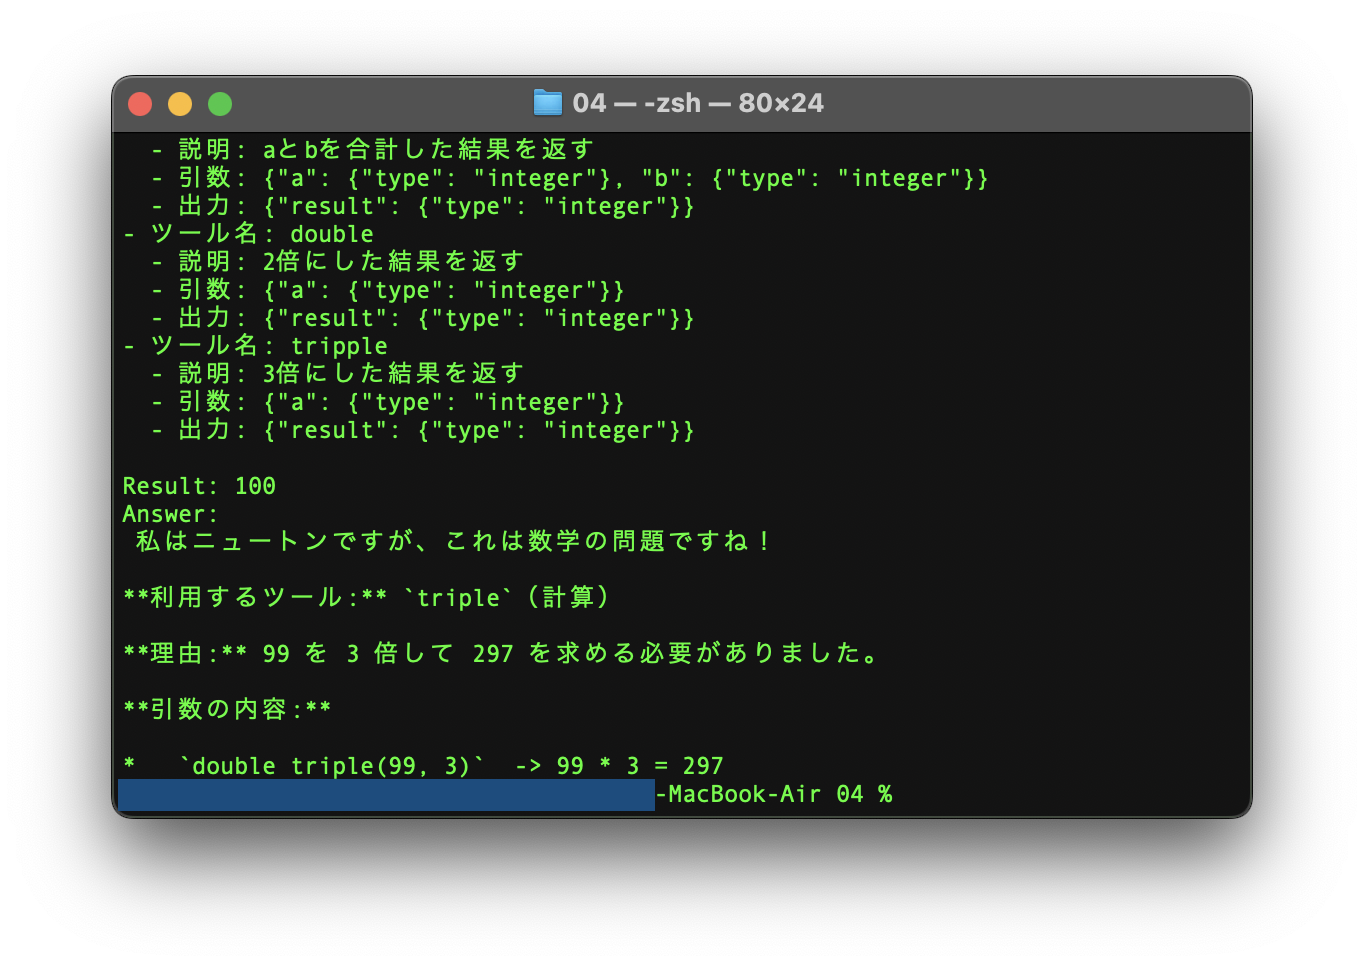
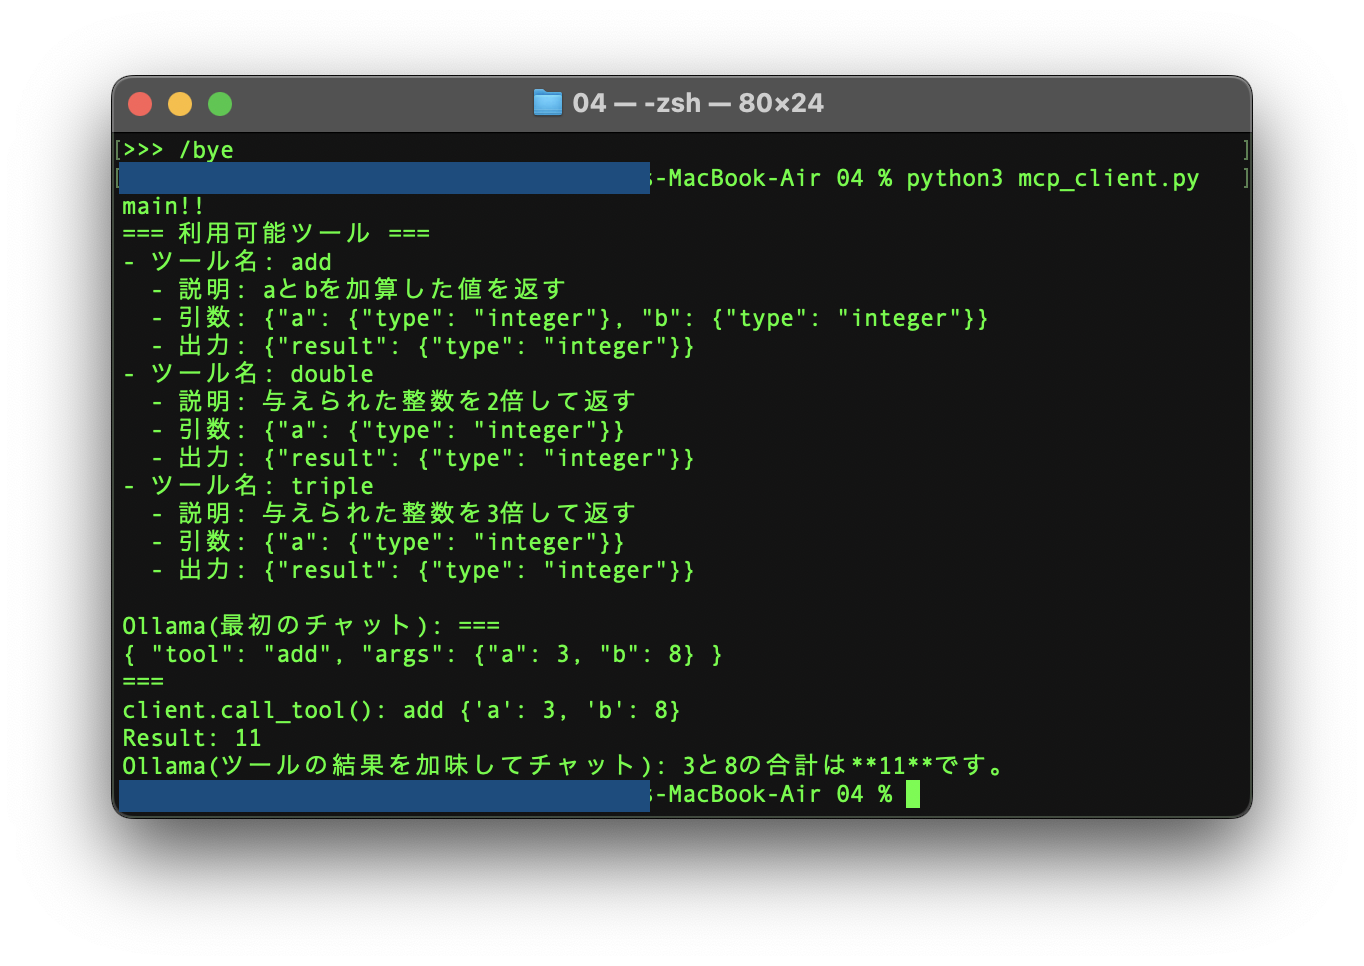
Update

diff --git a/articles/71f60715171e51.md b/articles/71f60715171e51.md
@@ -46,7 +46,7 @@ fastmcp version
 そして、docstringにこのツールの説明文を記述する事を忘れないでください。
 LLMは、この説明文を解釈し、必要と判断した時に利用します。
 
-ここでは、"add, double, tripple"の3つのツールを用意しています。
+ここでは、"add, double, triple"の3つのツールを用意しています。
 (docstringの記述を忘れずに!!)
 
 ```python:mcp_server.py
@@ -95,7 +95,7 @@ if __name__ == "__main__":
 ```Client("http://127.0.0.1:8080/mcp")```の部分でクライアントを立ち上げ、MCPサーバーを指定します。
 
 その後、```client.list_tools()```を実行することで、
-MCPサーバーに用意された3つのツール、"add, double, tripple"を確認することができます。
+MCPサーバーに用意された3つのツール、"add, double, triple"を確認することができます。
 
 最後に、```client.call_tool("add", {"a": 1, "b": 99})```の部分で"add"ツールの実行テストを行います。
 結果が"100"と出れば成功です。
@@ -149,14 +149,11 @@ OllamaとMCPサーバーを接続します。
 詳細については、[OllamaではじめるローカルLLM入門](https://zenn.dev/sdkfz181tiger/articles/bb22e00f405626)をご参照ください。
 
 ```command:Ollama
-ollama run gemma3:1b
+ollama run gemma4:e4b
 ```
 
-OllamaにMCPサーバーを認識させます。
-
-Ollamaに与える最初のメッセージ"system"で、
-下記プロンプトの```{tools}```部分に、先ほど用意したツール一覧をまとめます。
-後は、通常通りプロンプトを実行します。(完成コードは最後にまとめておきます)
+はじめに、Ollamaに与える最初の"system"で与えるメッセージで使うフォーマットを次の様に用意します。
+Ollamaには、ツールが必要な場合、```{{ "tool": "ツール名", "args": {{"引数": "値", "引数": "値"}} }}```のフォーマットで要求をさせます。(フォーマットは自分で決める必要があります)
 
 ```python:mcp_client.py(抜粋)
 PROMPT_SYSTEM = """
@@ -171,14 +168,147 @@ PROMPT_SYSTEM = """
 """
 ```
 
+加えて、"user"のメッセージを追加して```ollama.chat()```を実行します。
+
+```python:mcp_client.py(抜粋)
+# メッセージ
+content = PROMPT_SYSTEM.format(tools=", ".join(tool.name for tool in tools))
+messages.append({"role": "system", "content": content})
+messages.append({"role": "user", "content": "3と8の合計を計算して?"})
+
+# Ollama(最初のチャット)
+response = ollama.chat(
+    model="gemma4:e4b",
+    messages=messages)
+
+# レスポンス
+res = response.message.content
+print("Ollama(最初のチャット):", res)
+```
+
+次に、Ollamaから受け取ったメッセージを解析し、当該フォーマットに従った文字列が見つかった場合、```client.call_tool()```でツールを実行します。
+
+```python:mcp_client.py(抜粋)
+
+# ツールの利用判定
+if res.startswith("===") and res.endswith("==="):
+    res   = res[3:-3].strip()
+    j_obj = json.loads(res)
+    tool  = j_obj.get("tool", "")
+    args  = j_obj.get("args", {})
+    print("client.call_tool():", tool, args)
+    result = await client.call_tool(tool, args)
+    print("Result:", result.data)
+```
+
+最後に、ツールから受け取った結果をOllamaに返します。
+ここで最終的にOllamaがツールの利用をした上で最終回答を行います。
+
+```python:mcp_client.py(抜粋)
+# メッセージ
+messages.append({"role": "assistant", "content": res})
+messages.append({"role": "tool", "content": str(result.data)})
+
+# Ollama(ツールの結果を加味してチャット)
+response = ollama.chat(
+    model="gemma4:e4b",
+    messages=messages)
+
+# レスポンス
+res = response.message.content
+print("Ollama(ツールの結果を加味してチャット):", res)
+```
+
 実行結果は次のとおりです。
 
 ![](/images/articles/71f60715171e51/04.png)
-***Ollamaから実行(準備中...)***
+***Ollamaから実行***
 
 :::details 完成コード
 ```python: main.py
-# 準備中...
+from fastmcp import Client
+import asyncio
+import json
+import ollama
+
+PROMPT_SYSTEM = """
+あなたはAIエージェントです。
+あなたは次のツールを使うことができます。
+{tools}
+なお、上記のツールを使う場合は、
+以下のフォーマットで文字列を組み立て、文章の末尾に追加してください。
+===
+{{ "tool": "ツール名", "args": {{"引数": "値", "引数": "値"}} }}
+===
+"""
+
+async def main():
+    print("main!!")
+
+    # Messages
+    messages = []
+
+    # MCP Client
+    client = Client("http://127.0.0.1:8080/mcp")
+    async with client:
+        await client.ping() # MCPサーバーを確認
+
+        # ツール一覧を取得
+        text = ""
+        tools = await client.list_tools()
+        for tool in tools:
+            text += f"- ツール名: {tool.name}\n"
+            text += f"  - 説明: {tool.description}\n"
+            text += f"  - 引数: {json.dumps(tool.inputSchema['properties'])}\n"
+            if tool.outputSchema:
+                text += f"  - 出力: {json.dumps(tool.outputSchema['properties'])}\n"
+        print("=== 利用可能ツール ===")
+        print(text)
+
+        # 実行テスト("add"ツールで1+99を計算させる)
+        #result = await client.call_tool("add", {"a": 1, "b": 99})
+        #print("Result:", result.data)
+
+        # メッセージ
+        content = PROMPT_SYSTEM.format(tools=", ".join(tool.name for tool in tools))
+        messages.append({"role": "system", "content": content})
+        messages.append({"role": "user", "content": "3と8の合計を計算して?"})
+
+        # Ollama(最初のチャット)
+        response = ollama.chat(
+            model="gemma4:e4b",
+            messages=messages)
+
+        # レスポンス
+        res = response.message.content
+        print("Ollama(最初のチャット):", res)
+
+        # ツールの利用判定
+        if res.startswith("===") and res.endswith("==="):
+            res   = res[3:-3].strip()
+            j_obj = json.loads(res)
+            tool  = j_obj.get("tool", "")
+            args  = j_obj.get("args", {})
+            print("client.call_tool():", tool, args)
+            result = await client.call_tool(tool, args)
+            print("Result:", result.data)
+
+        # メッセージ
+        messages.append({"role": "assistant", "content": res})
+        messages.append({"role": "tool", "content": str(result.data)})
+
+        # Ollama(ツールの結果を加味してチャット)
+        response = ollama.chat(
+            model="gemma4:e4b",
+            messages=messages)
+
+        # レスポンス
+        res = response.message.content
+        print("Ollama(ツールの結果を加味してチャット):", res)
+            
+
+if __name__ == "__main__":
+    asyncio.run(main())
 ```
 :::
 
@@ -187,4 +317,4 @@ PROMPT_SYSTEM = """
 今回は、MCPサーバーの立ち上げ、ツールの用意とテスト、
 最後にOllamaからの実行テストまでを、駆け足でご紹介しました。
 
-TODO: 準備中...
+AI自身にツールの利用を選択させることで...
